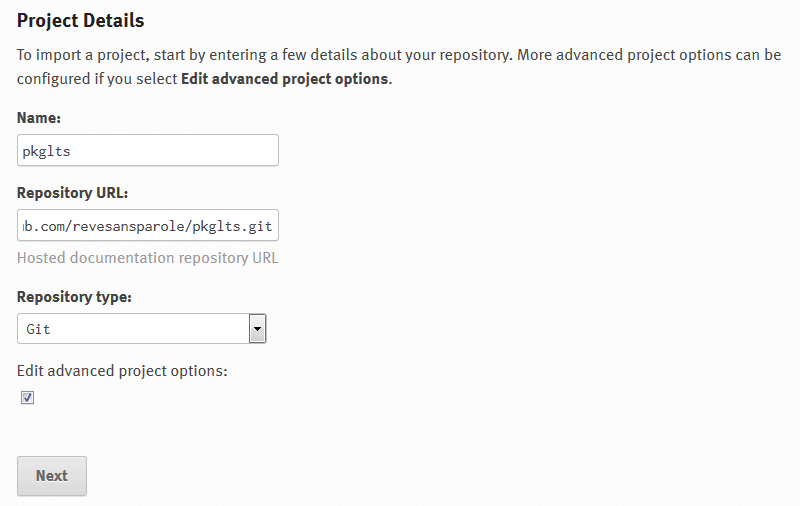
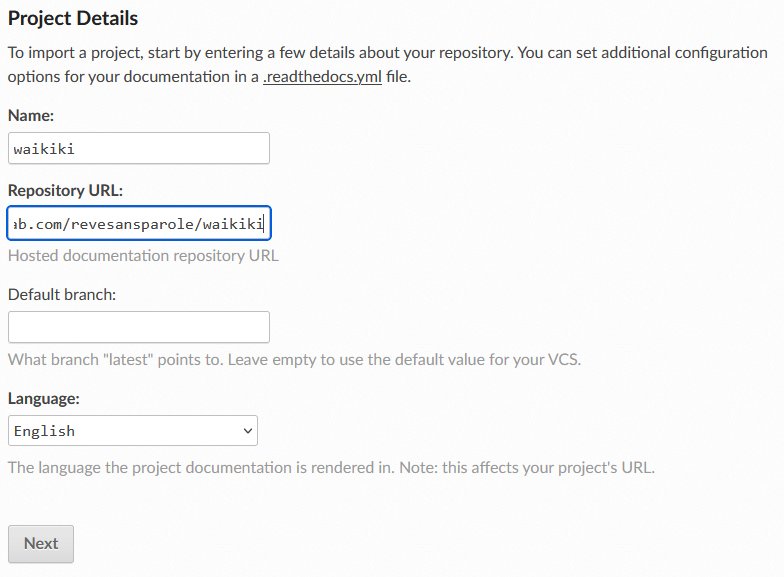
update rtd doc

diff --git a/doc/option/readthedocs/readthedocs_tutorial.rst b/doc/option/readthedocs/readthedocs_tutorial.rst
@@ -33,28 +33,19 @@ of your project on github.
 
 .. image:: readthedocs_github_repo_url.png
 
-Leave the repository type on 'git' and don't forget to check the 'edit advanced'
-before you click on 'next' if you want to add more information.
+Leaving default branch blank and language to english, clicking **next** will lead
+you to a page explaining how to setup your project.
+Since this part is managed by pkglts you can safely ignore it and click on **finish**.
+
+.. image:: readthedocs_finish_import.png
 
 Making the generation of your doc successful
 --------------------------------------------
 
-The previous step must have led you to your project home page with a sentence
-reading that the build is in progress.
+For your documentation to be build everytime you push on your original repo, you
+need to follow the doc and register a webhook.
 
-.. image:: readthedocs_project_page.png
-
-Unfortunately there is a good chance that this build will fail depending on the
-actual external package requirements of your project. To ensure subsequent build
-to be successful, you need to activate the virtualenv option. Check the corresponding
-box in the admin/advanced settings panel.
-
-.. image:: readthedocs_admin.png
-
-and enter 'requirements.txt' in the 'requirement file' field of the form. Don't
-forget to click on the 'submit' button at the bottom of the page. You'll be
-redirected to the project home page and a new build must be taking place. A successful
-one this time hopefully :)
+https://docs.readthedocs.io/en/stable/guides/setup/git-repo-manual.html
 
 Final remark
 ------------
